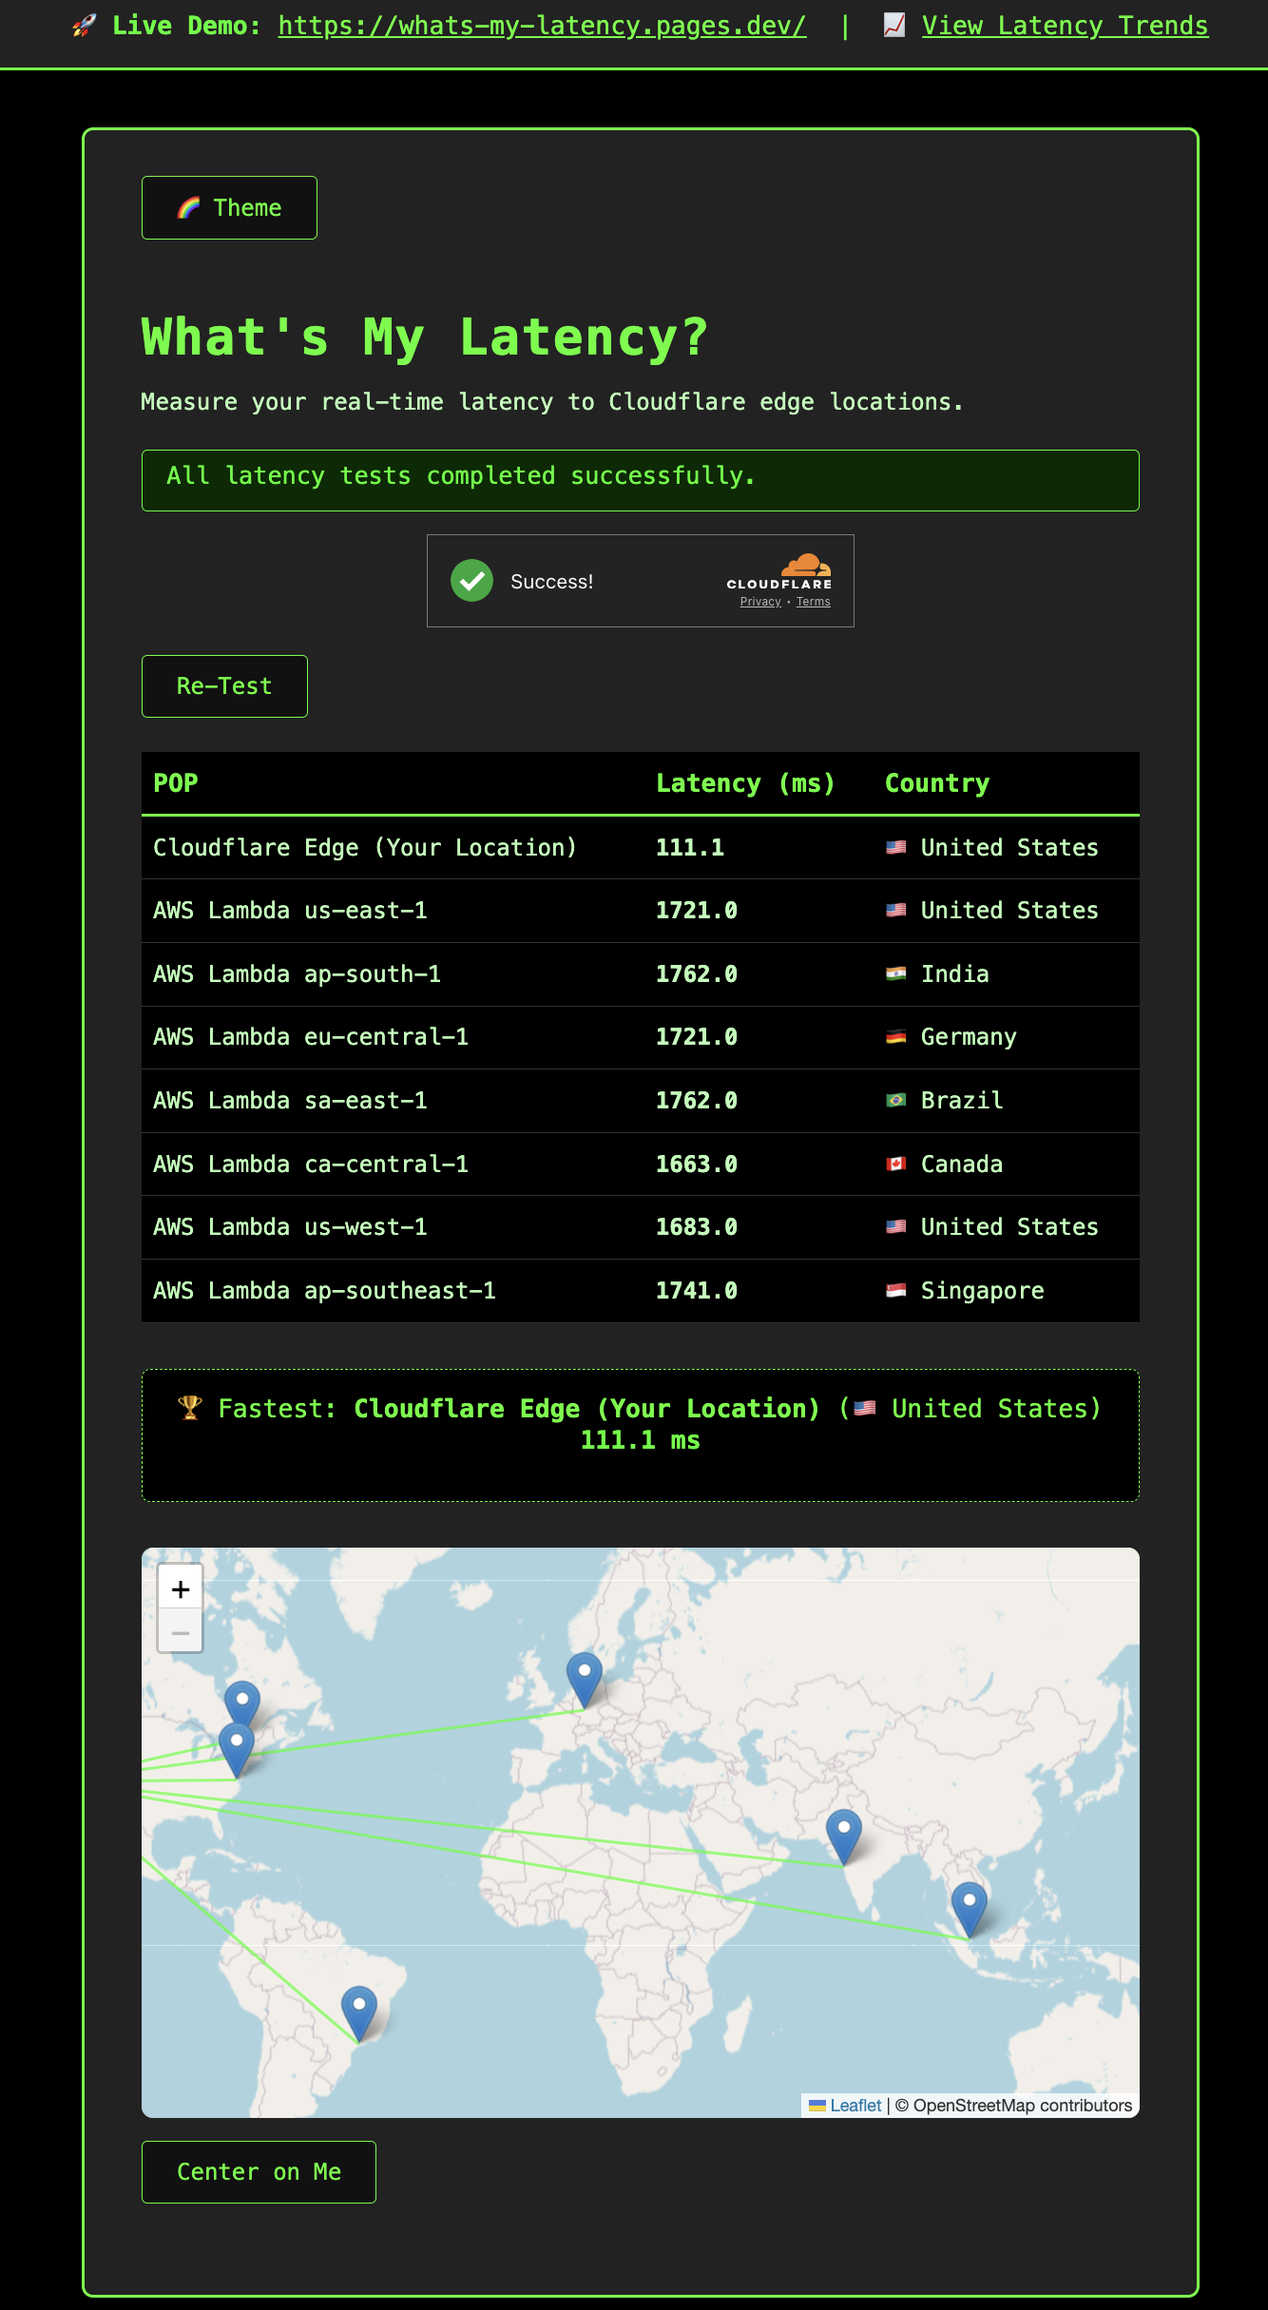
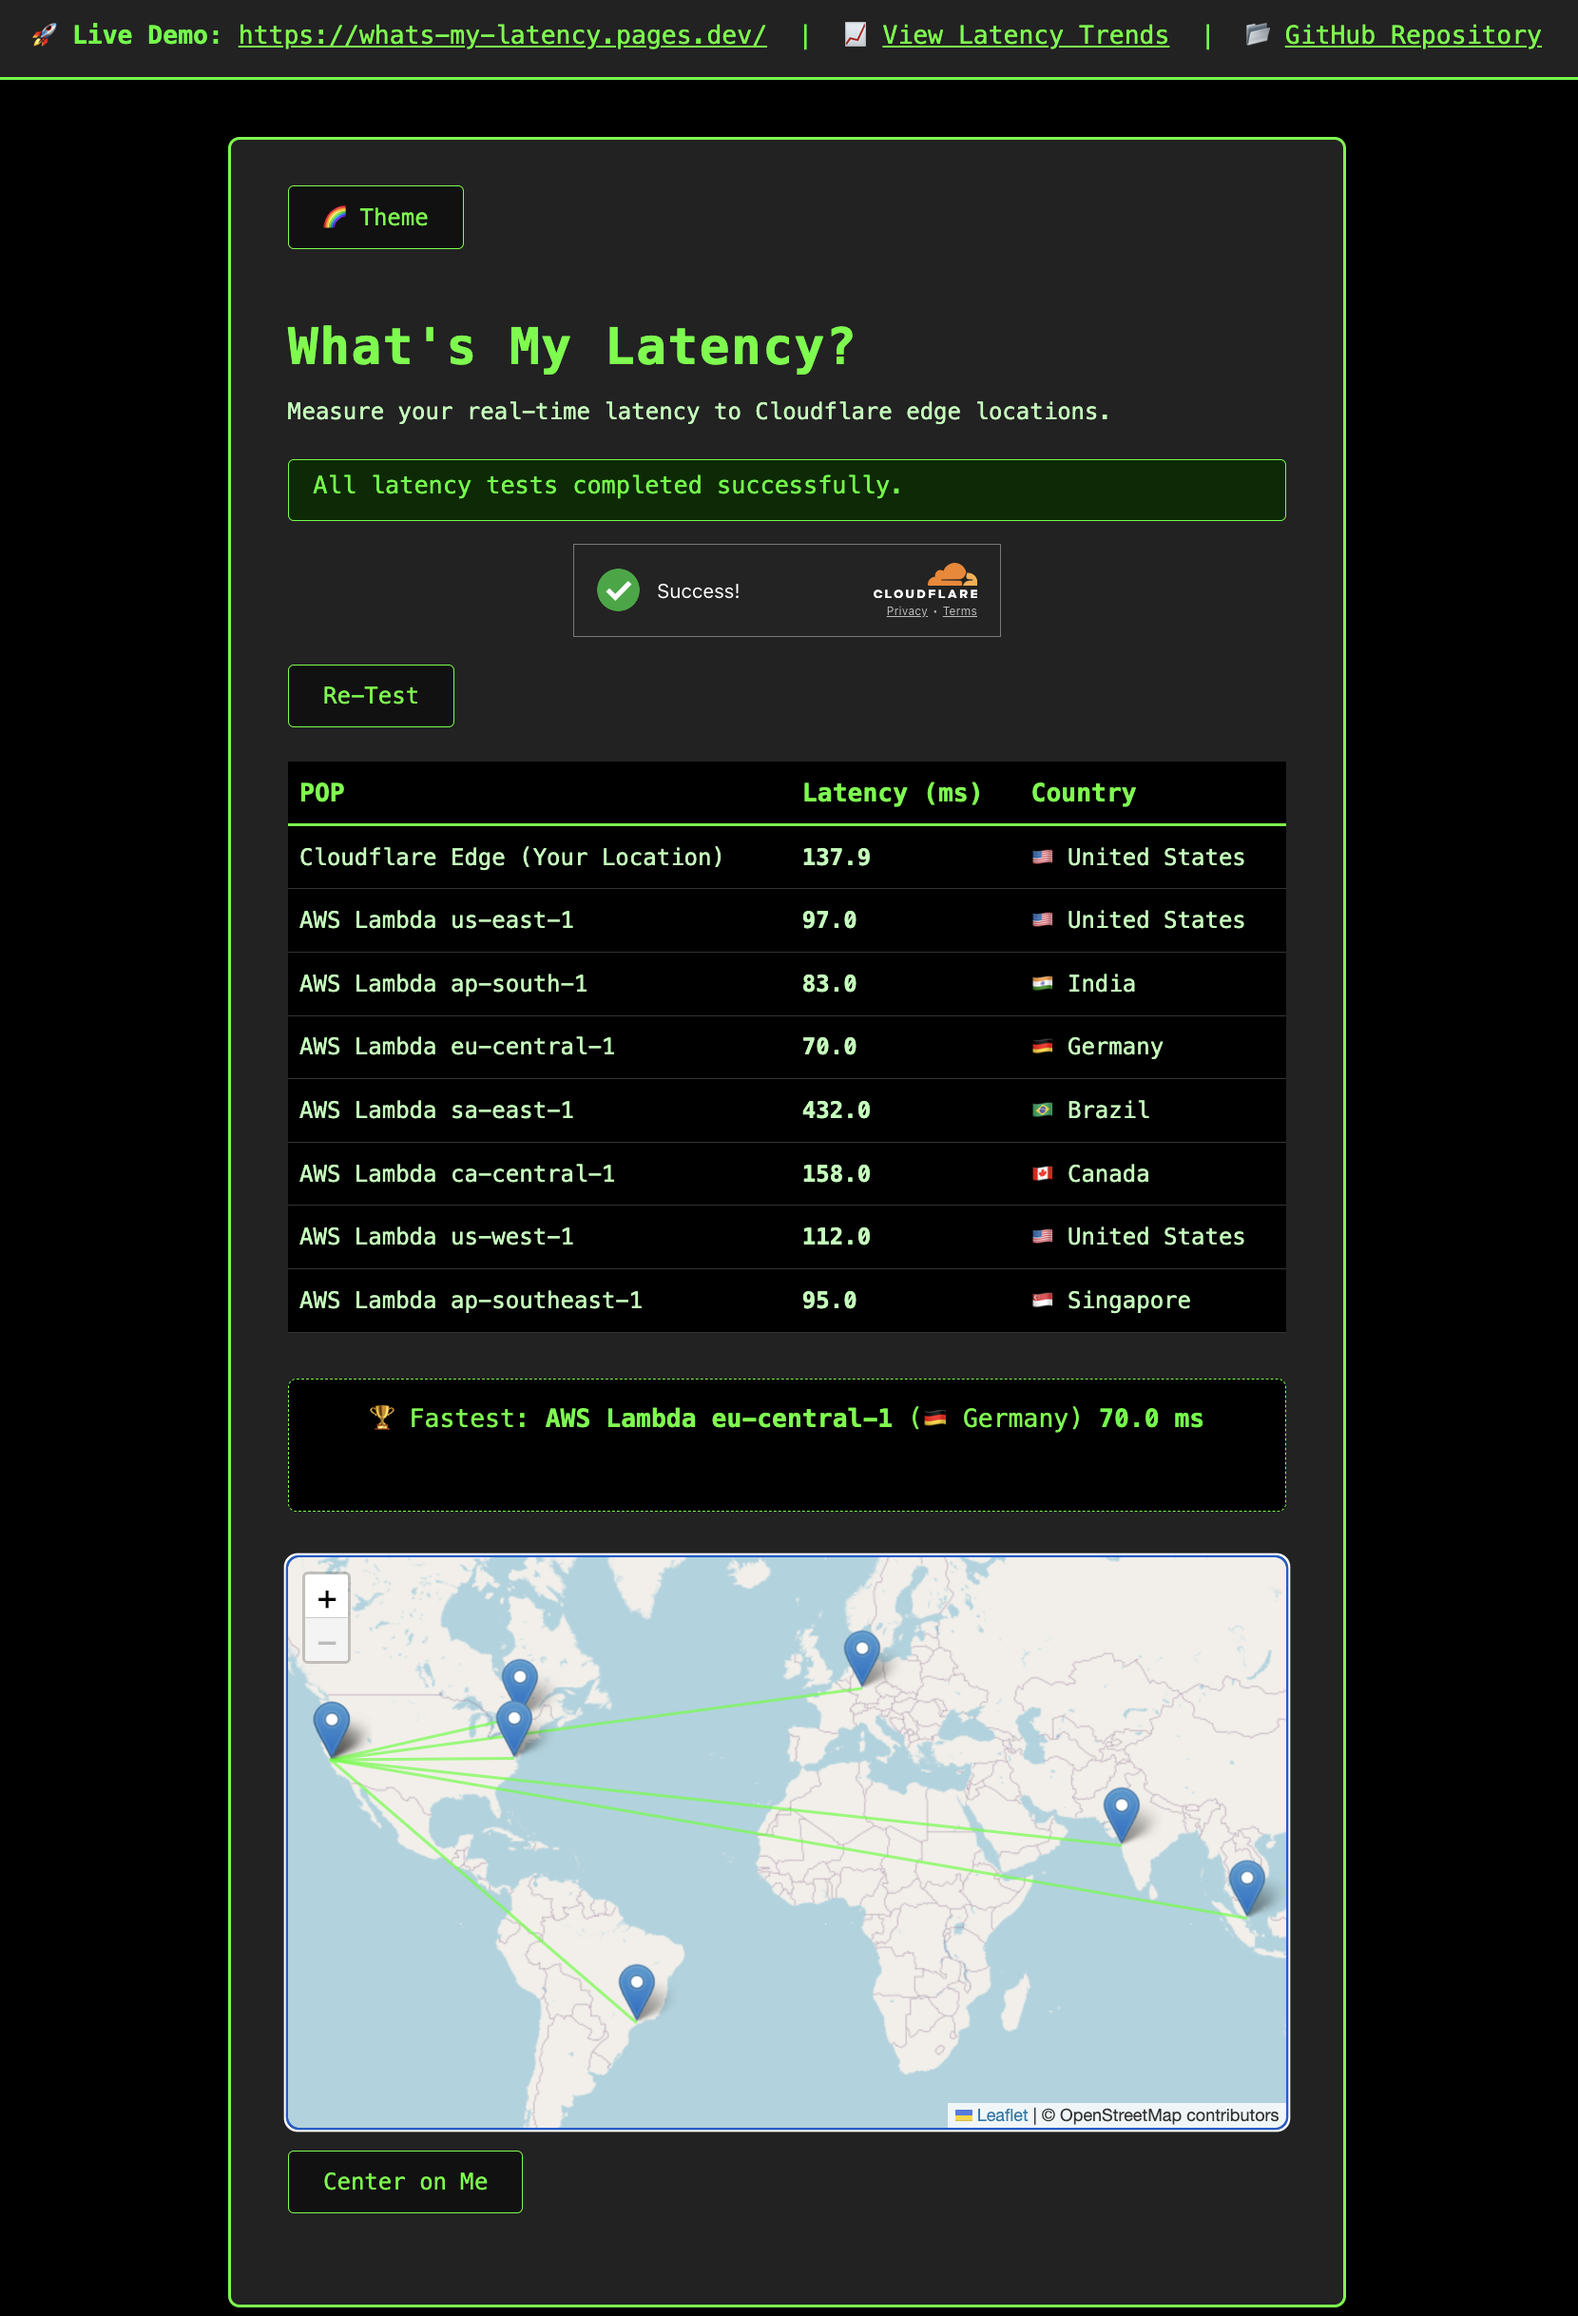
Add GitHub repository link and chart screenshots - Add GitHub repository link to main page header - Add three new chart screenshots (line chart, heatmap, box plot) - Update README with comprehensive screenshot section showing all chart types - Organize screenshots with descriptive captions for bette

diff --git a/frontend/index.html b/frontend/index.html
@@ -13,6 +13,8 @@
     🚀 <b>Live Demo:</b> <a href="https://whats-my-latency.pages.dev/" target="_blank" style="color: #39ff14; text-decoration: underline;">https://whats-my-latency.pages.dev/</a>
     &nbsp;|&nbsp;
     📈 <a href="trends.html" target="_blank" style="color: #39ff14; text-decoration: underline;">View Latency Trends</a>
+    &nbsp;|&nbsp;
+    📂 <a href="https://github.com/arun-gupta/whats-my-latency" target="_blank" style="color: #39ff14; text-decoration: underline;">GitHub Repository</a>
   </div>
   <main class="terminal-container" role="main">
     <header>

diff --git a/README.md b/README.md
@@ -26,9 +26,11 @@
 - **Automatic backend latency testing:** The backend runs latency tests to all regions every 3 minutes using Cloudflare Workers Cron Triggers.
 - **D1 database storage:** All latency results are stored in Cloudflare D1 for historical analysis.
 - **Interactive latency trends:** Scrollable chart showing historical latency data across all POPs with configurable time range (10-1000+ data points)
+- **Multiple chart types:** Line chart, heatmap, and statistical box plot for different data perspectives
 - **Custom legend:** Always-visible legend showing all POPs with color coding
 - **Real-time data updates:** "Run Latency Test Now" button triggers new tests and updates the chart
 - **Smart validation:** Slider automatically adjusts to available data range
+- **Statistical analysis:** Box plot shows min, Q1, median, mean, Q3, and max latency for each POP
 
 ---
 
@@ -90,12 +92,16 @@ This project is a hands-on demonstration of Cloudflare's global edge network and
 - **Error Handling**: If a region can't be reached, you'll see a clear error message and icon in the table.
 
 ### Trends Page
-- **Interactive Chart**: Scrollable chart showing historical latency data across all POPs
+- **Multiple Chart Types**: 
+  - **Line Chart**: Shows latency trends over time for each POP
+  - **Heatmap**: Shows average latency by hour for each POP
+  - **Box Plot**: Shows statistical distribution (min, Q1, median, mean, Q3, max) for each POP
 - **Configurable Range**: Use the slider to select 10-1000+ data points to display
 - **Real-time Updates**: Click "Run Latency Test Now" to trigger new tests and refresh the chart
 - **Custom Legend**: Always-visible legend showing all POPs with color coding
 - **Smart Validation**: Slider automatically adjusts to available data range
 - **Loading Feedback**: Visual spinner during data loading and chart updates
+- **Statistical Insights**: Box plot provides comprehensive latency distribution analysis
 
 ---
 
@@ -232,21 +238,36 @@ curl -X POST https://whats-my-latency-worker.<your-subdomain>.workers.dev/trigge
 ### Phase 3 (Complete)
 - Historical data storage in Cloudflare D1
 - Interactive trends chart with scrollable visualization
+- Multiple chart types (line, heatmap, box plot) for comprehensive data analysis
 - Real-time data updates and configurable time ranges
 - Enhanced UX with custom legends and smart validation
+- Statistical analysis with comprehensive latency distribution insights
 
 ---
 
 ## 📷 Screenshots
 
-Below is a screenshot of the main page:
-
+### Main Page
 ![Main UI Screenshot](frontend/screenshots/main-ui.png)
 
+### Trends Page - Chart Types
+
+#### Line Chart
+Shows latency trends over time for each POP:
+![Line Chart Screenshot](frontend/screenshots/latency-line-chart.png)
+
+#### Heatmap
+Shows average latency by hour for each POP:
+![Heatmap Screenshot](frontend/screenshots/latency-heatmap.png)
+
+#### Box Plot
+Shows statistical distribution (min, Q1, median, mean, Q3, max) for each POP:
+![Box Plot Screenshot](frontend/screenshots/latency-box.png)
+
 > **Tip:**
-> - Place your screenshot in the `frontend/screenshots/` directory as `main-ui.png`.
+> - Screenshots are stored in the `frontend/screenshots/` directory.
 > - Use PNG or JPG format for best results.
-> - To update, replace the placeholder image with your own screenshot.
+> - To update, replace the images with your own screenshots.
 
 ---
 
